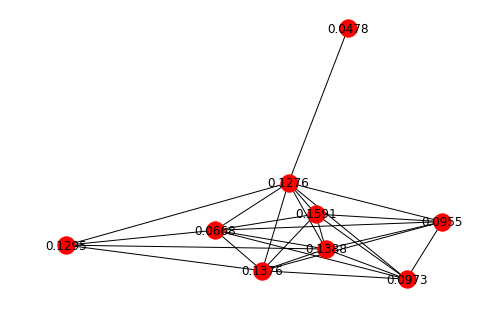
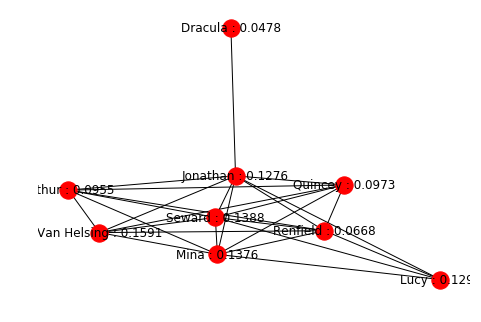
Comments

diff --git a/graph.py b/graph.py
@@ -7,6 +7,8 @@
 #Eventually we could try using pagerank in order to see which characters are the most important ones (obciously dracula should be first here..)
 #############################################
 
+#DISCLAIMER : If you want the graph to be correct do not run the whole code. First run lines 1 to 139,
+#then for pagerank graph run lines 163 to 269, else both graph will be grouped in one which will duplicate nodes.  
 
 
 filepath = "C:/Users/Lucien/Desktop/Dracula/dracula.txt"
@@ -160,6 +162,13 @@ nx.draw(H, with_labels = True)
 # 1.2 #######################################
 #First is iterative method, then exact method
 
+resultsTwo = np.array(results)
+for i in range(0, len(charsL)):
+    for j in range(0, len(charsL)):
+        if resultsTwo[i][j] < 15:
+            resultsTwo[i][j] = 0
+G = nx.from_numpy_matrix(resultsTwo)
+
 import numpy as np 
 import networkx as nx
 from scipy import linalg
@@ -253,14 +262,13 @@ for i in range(8, -1, -1):
 labels = {}
 counter = 0
 for label in orderedPR:
-    labels[counter] = round(label[1], 4)
+    labels[counter] = label[0] +" : " + str(round(label[1], 4))
     counter +=1
     
 #Using graph with treshold for representation, much clearer 
 G = nx.from_numpy_matrix(resultsTwo)
 H=nx.relabel_nodes(G,labels)
 nx.draw(H, with_labels = True)
-
 
 
 
